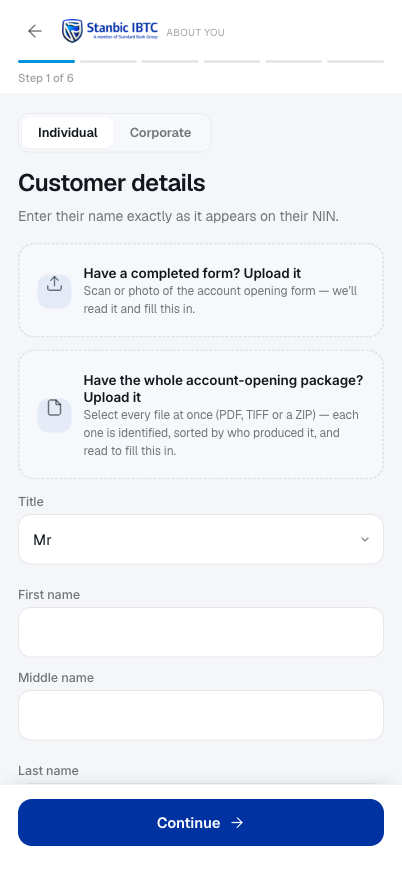
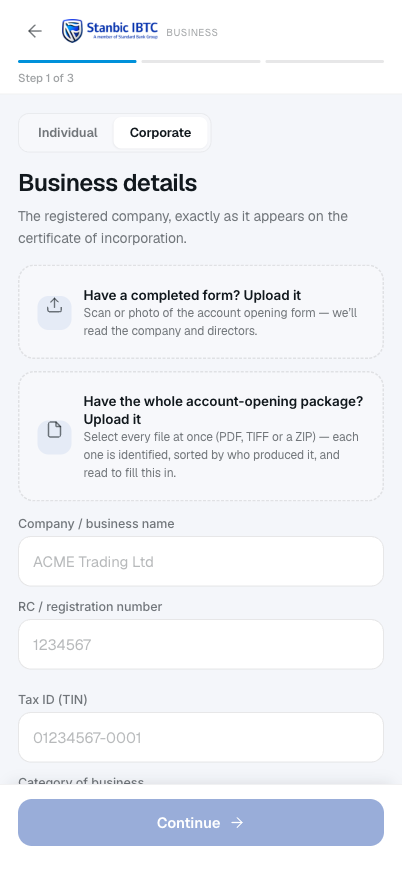
Pulse walkthrough: Stanbic corporate AOP in the form-reading scenes, phone frame with status bar

diff --git a/public/walkthrough/mobile.html b/public/walkthrough/mobile.html
@@ -41,9 +41,18 @@ body{margin:0;color:var(--ink);font-family:var(--display);line-height:1.5;font-s
 .stage{display:grid;grid-template-columns:auto minmax(0,1fr);gap:clamp(28px,6vw,96px);align-items:center;max-width:1200px;margin:0 auto;padding:26px max(20px,env(safe-area-inset-right,0px)) 10px max(20px,env(safe-area-inset-left,0px))}
 .phone-wrap{position:relative;justify-self:center}
 .phone-wrap::after{content:"";position:absolute;inset:auto 10% -26px 10%;height:40px;border-radius:50%;background:radial-gradient(closest-side, rgba(1,33,105,.25), transparent)}
-.phone{position:relative;aspect-ratio:402/874;height:min(calc(100vh - 290px),760px);min-height:440px;width:auto;max-width:100%;border-radius:46px;background:linear-gradient(160deg,#2a3350,#0f1630);padding:11px;box-shadow:var(--shadow), inset 0 0 0 1px rgba(255,255,255,.14);animation:float 7s ease-in-out infinite}
+.phone{position:relative;aspect-ratio:402/918;height:min(calc(100vh - 290px),780px);min-height:460px;width:auto;max-width:100%;border-radius:50px;background:linear-gradient(160deg,#3a4466,#121a33 45%,#0b1024);padding:10px;box-shadow:var(--shadow), inset 0 0 0 1.5px rgba(255,255,255,.18), inset 0 0 0 4px #05070f;animation:float 7s ease-in-out infinite}
+.phone::before,.phone::after{content:"";position:absolute;background:#1a2340;border-radius:2px;box-shadow:inset 0 0 0 1px rgba(255,255,255,.12)}
+.phone::before{left:-3px;top:19%;width:3px;height:9%;box-shadow:inset 0 0 0 1px rgba(255,255,255,.12),0 13% 0 0 #1a2340}
+.phone::after{right:-3px;top:24%;width:3px;height:13%}
+.sbar{flex:0 0 44px;display:flex;align-items:center;justify-content:space-between;padding:0 26px 0 30px;font:600 14px/1 var(--display);color:#0b1b3d;background:#fff;letter-spacing:.01em;position:relative;transition:background .4s,color .4s}
+.sbar.dark{background:#0d1420;color:#fff}
+.sbar::before{content:"";position:absolute;left:50%;top:9px;transform:translateX(-50%);width:34%;height:26px;border-radius:14px;background:#05070f}
+.sbar svg{height:12px;width:auto;display:block}
+.sbar .r{display:flex;align-items:center;gap:6px}
+.shots{position:relative;flex:1;min-height:0}
 @keyframes float{0%,100%{transform:translateY(0)}50%{transform:translateY(-8px)}}
-.screen{position:relative;width:100%;height:100%;border-radius:36px;overflow:hidden;background:#fff}
+.screen{position:relative;width:100%;height:100%;border-radius:40px;overflow:hidden;background:#fff;display:flex;flex-direction:column}
 .screen img{position:absolute;inset:0;width:100%;height:100%;object-fit:cover;opacity:0;transform:scale(1.03);transition:opacity .45s ease,transform .6s ease}
 .screen img.on{opacity:1;transform:scale(1)}
 
@@ -139,7 +148,7 @@ button:focus-visible{outline:2px solid var(--sky);outline-offset:2px}
       <h1>A day in the branch, on one phone</h1>
       <p>Open an account from a paper form in minutes, follow every application live in UiPath Maestro, run bulk opening from maker to verifier, and clear exceptions by root cause. 31 scenes, about ten minutes.</p>
       <ul class="list">
-        <li><i></i>Scan a form, 44 fields filled</li><li><i></i>Live case stages from Maestro</li>
+        <li><i></i>Scan a form, read in seconds</li><li><i></i>Live case stages from Maestro</li>
         <li><i></i>BVN, NIN and document checks</li><li><i></i>Bulk opening with four-eyes control</li>
         <li><i></i>Exception triage by root cause</li><li><i></i>Aura, the assistant that acts</li>
       </ul>
@@ -163,7 +172,7 @@ button:focus-visible{outline:2px solid var(--sky);outline-offset:2px}
 </header>
 <div class="prog"><i id="prog"></i></div>
 <main class="stage">
-  <div class="phone-wrap"><div class="phone"><div class="screen" id="screen"></div></div></div>
+  <div class="phone-wrap"><div class="phone"><div class="screen"><div class="sbar" id="sbar"><span>9:41</span><span class="r"><svg viewBox="0 0 18 12" fill="currentColor"><rect x="0" y="8" width="3" height="4" rx=".6"/><rect x="5" y="5.5" width="3" height="6.5" rx=".6"/><rect x="10" y="3" width="3" height="9" rx=".6"/><rect x="15" y="0" width="3" height="12" rx=".6"/></svg><svg viewBox="0 0 16 12" fill="currentColor"><path d="M8 9.6a1.6 1.6 0 1 1 0 3.2 1.6 1.6 0 0 1 0-3.2Zm0-4.2c1.9 0 3.6.8 4.8 2l-1.4 1.4A4.8 4.8 0 0 0 8 7.4a4.8 4.8 0 0 0-3.4 1.4L3.2 7.4A6.8 6.8 0 0 1 8 5.4Zm0-4.2c3 0 5.8 1.2 7.8 3.2l-1.4 1.4A9 9 0 0 0 8 3.2a9 9 0 0 0-6.4 2.6L.2 4.4A11 11 0 0 1 8 1.2Z"/></svg><svg viewBox="0 0 27 12" fill="none" stroke="currentColor"><rect x=".5" y=".5" width="22" height="11" rx="3"/><rect x="2.5" y="2.5" width="16" height="7" rx="1.5" fill="currentColor" stroke="none"/><path d="M24.5 4v4" stroke-width="1.6" stroke-linecap="round"/></svg></span></div><div class="shots" id="screen"></div></div></div></div>
   <section class="story" id="story" aria-live="polite">
     <div class="actchip" id="actchip"></div>
     <h1 id="title"></h1>
@@ -178,7 +187,7 @@ button:focus-visible{outline:2px solid var(--sky);outline-offset:2px}
 </nav>
 <script>
 const ACTS = [{"n": "Start of the day", "sub": "The relationship manager opens Pulse", "c": "#0091da"}, {"n": "One customer", "sub": "Open an account on the spot", "c": "#0033a1"}, {"n": "Follow the case", "sub": "Live from UiPath Maestro", "c": "#6c3fd1"}, {"n": "Many at once", "sub": "Bulk opening, maker to verifier", "c": "#0a8f6b"}, {"n": "Operations", "sub": "Exceptions and approvals", "c": "#d9640b"}, {"n": "Relationships and help", "sub": "Clients, Aura, alerts, roles", "c": "#c21f6b"}];
-const SCENES = [{"act": 0, "title": "Good afternoon", "say": "Pulse opens on the banker's day, not a menu. The Aura prompt comes first; under it, a rail shows what the platform is doing right now: 79 applications in flight in Maestro, 11 forms an agent has read and is waiting to have confirmed, 28 accounts a robot keyed into core banking today.", "behind": "Each card on the rail is a live count from the tenant: Maestro cases, agent tasks, RPA jobs, Case Management exceptions, Delegate approvals.", "img": "mobile/stanbic/01-home.png"}, {"act": 0, "title": "Your pipeline at a glance", "say": "Scroll once and the whole book is there: 135 applications, 17 that need this person, 11 waiting on a customer, 79 moving on their own, 26 opened. The oldest three that need attention are listed with the reason in plain words and a one-tap action each.", "behind": "Lane counts come from the record store; 'See the live case' deep-links into the Maestro instance behind the application.", "img": "mobile/stanbic/01b-home-pipeline.png"}, {"act": 1, "title": "Scan it, upload it, or type it", "say": "Tap 'One customer'. The banker can scan the paper form, upload the whole account-opening package, or type the details. Individual or corporate, same flow.", "behind": "The capture wizard is the customer's own six-step flow in RM mode, so what the banker captures is exactly what the customer would have submitted.", "img": "mobile/stanbic/05-capture.png"}, {"act": 1, "title": "The form is read in seconds", "say": "A ten-page handwritten account opening form goes in. The reader identifies it as the customer's account opening form, pages through it, and reports 44 application fields.", "behind": "Document reading runs on UiPath IXP. The page preview is the customer's actual scan; the right panel fills field by field as the read completes.", "img": "mobile/stanbic/05c-read.png"}, {"act": 1, "title": "Forty-four fields, filled", "say": "'Use these details' drops everything into the application: title, names, date of birth, phone, address, employment, next of kin. The banker checks and continues. Nothing is retyped.", "behind": "Every field keeps its source and confidence, so low-confidence values can be routed to a maker for confirmation later.", "img": "mobile/stanbic/05d-filled.png"}, {"act": 2, "title": "Pipeline by lane", "say": "Every customer the branch captured, in one list. Filter to 'Needs you', 'Waiting on customer', 'Moving' or 'Opened'. On the phone, swipe right to call, swipe left to nudge the customer with their KYC link.", "behind": "Status marks follow one grammar across the app: filled square needs you, hollow square waiting, half square moving, tick done.", "img": "mobile/stanbic/02-pipeline.png"}, {"act": 2, "title": "Live in Maestro", "say": "Open Emeka Chukwu. The stage bar is read from the live Maestro case: Intake, Verification, Decision, Activation, Closure. Inside Decision, four tasks are done and one needs a person. The button at the bottom completes that Maestro task from the phone.", "behind": "Stages and tasks come from the Maestro Case Management API for the instance linked to this record; 'Approve Decision and advance' completes the human task in Action Center.", "img": "mobile/stanbic/03-case.png"}, {"act": 2, "title": "Send the KYC link", "say": "If something is missing from the customer, send the KYC link by SMS and WhatsApp in one tap. The customer finishes documents, liveness and signature on their own phone. Nobody has to come into the branch.", "behind": "The link is a tokenised customer journey; when the customer completes it, the case moves on and the desk sees it.", "img": "mobile/stanbic/03b-sendlink.png"}, {"act": 2, "title": "Identity, field by field", "say": "The Identity tab shows the BVN validation against NIBSS: response 00, valid, not watch-listed. Each field is the form value beside the bureau value, so a mismatch is obvious at a glance. Below it, the NIN linkage.", "behind": "BVN and NIN checks are agent tasks in the Verification stage; the result is rendered as returned, nothing is re-derived on the phone.", "img": "mobile/stanbic/04b-identity.png"}, {"act": 2, "title": "Documents judged against the bank's rules", "say": "The Documents tab judges each document the customer gave: declared type, expiry, issuing authority. Here the voter's card passes: valid to 2030, and INEC holds a matching record.", "behind": "Document rules are a DMN decision table the bank owns; changing a rule changes the verdict without changing the app.", "img": "mobile/stanbic/04-docs.png"}, {"act": 2, "title": "Find anyone", "say": "Search by name, reference or account number from anywhere. Typing a surname lists every matching application with its state.", "behind": "Search runs over the record store and the Maestro links, so a reference from a Maestro email finds the same case.", "img": "mobile/stanbic/10-find.png"}, {"act": 3, "title": "A batch: how are they arriving?", "say": "'Many at once' starts a batch. Filled forms arrive as a zip and are read automatically, then confirmed by an Operations maker. Or a list of people, each of whom gets a link and fills the form on their own phone.", "behind": "A batch is a Maestro BPMN process that starts one case per record and runs a final check across the batch.", "img": "mobile/stanbic/06-newbatch.png"}, {"act": 3, "title": "About the batch", "say": "Name it, pick the segment and the booking branch. Four steps and the batch is running.", "behind": "Segment and branch drive routing rules and the account product.", "img": "mobile/stanbic/06b-newbatch2.png"}, {"act": 3, "title": "Batch progress", "say": "A co-operative of twenty: 85% decided, three still need the relationship manager, the rest opened or with Operations. Filter the people by You, Ops or Done. Opened accounts show the account number.", "behind": "Each person's row is their own case; the batch view rolls them up.", "img": "mobile/stanbic/07-batch.png"}, {"act": 3, "title": "The maker's queue", "say": "Switch the work role to Operations maker and Home changes. Eleven forms to confirm, five read with low confidence, about six minutes at this person's pace. Hardest first.", "behind": "Roles are set in admin and switchable on the device; Home, the queue and the actions follow the role.", "img": "mobile/stanbic/16-maker-home.png"}, {"act": 3, "title": "Focus mode: confirm what was read", "say": "One form at a time. For each doubtful field the handwriting crop sits above the value the agent read and its confidence. Correct, or edit. Fields read confidently are folded away. Every change is logged with the maker's name, the time, and before and after.", "behind": "This is the human-in-the-loop step of the IXP read, with the audit trail the regulator asks for.", "img": "mobile/stanbic/22-maker-review.png"}, {"act": 3, "title": "The verifier: ready to open", "say": "As Operations verifier, Home shows five accounts confirmed by makers and ready to open. They open on Post No Debit until documents are verified. Four-eyes rule: you cannot open an account you confirmed yourself.", "behind": "Maker and checker are the signed-in users; the app refuses self-approval at the data layer, not just in the UI.", "img": "mobile/stanbic/17-verifier-home.png"}, {"act": 3, "title": "Slide to open five accounts", "say": "The maker trail for each person is listed, then the commit. Opening an account cannot be undone, so it is a slide, not a tap.", "behind": "The slide starts the core-banking robot for each account; the account numbers appear on the batch screen as the jobs complete.", "img": "mobile/stanbic/21-authorise.png"}, {"act": 4, "title": "Exception triage", "say": "The Operations analyst's Home is a control panel: 84% straight-through against an 80% target, 17 open exceptions, 16 past SLA. Below, the queue grouped by root cause, with one fix per cause: 'Retry BVN on all 4'.", "behind": "Root causes are derived from the incident reason on each Maestro case, so a platform outage shows up as one line, not forty.", "img": "mobile/stanbic/18-ops-home.png"}, {"act": 4, "title": "One root cause, every case", "say": "Open a cause and see each case under it, how long it has been over SLA, and whether anyone owns it. Filter to past SLA, unowned, or mine.", "behind": "Taking a case assigns the Action Center task to this person.", "img": "mobile/stanbic/19-ops-queue.png"}, {"act": 4, "title": "Work one exception", "say": "A BVN that did not verify. The cause in plain words, every check with its result, and the actions: take the case, re-run the BVN check, escalate, reject.", "behind": "Re-run restarts the check task in Maestro; escalate hands the case to Compliance through Delegate.", "img": "mobile/stanbic/20-ops-case.png"}, {"act": 4, "title": "Approvals, most urgent first", "say": "Maker-checker approvals waiting on this person: six, worth 266.5 million naira, one past SLA. Filter by past SLA, high value or dual approval.", "behind": "Approvals are Action Center tasks assigned to this user's role; the amount thresholds come from the bank's policy.", "img": "mobile/stanbic/08-approvals.png"}, {"act": 4, "title": "One approval, full context", "say": "An overdraft limit increase: the request, who raised it, the maker's justification, the checks against the current limit. Approve and route, or reject with a reason.", "behind": "Over this person's limit, so 'Approve and route' sends it to a second approver automatically.", "img": "mobile/stanbic/08b-approval.png"}, {"act": 5, "title": "The banker's book", "say": "Clients: five key relationships, three at risk, eleven suggested actions, two KYC reviews due. Scan a walk-in's ID to pull up their profile.", "behind": "Signals are derived from product and transaction data; the list is sorted by what matters most right now.", "img": "mobile/stanbic/09-clients.png"}, {"act": 5, "title": "One client", "say": "Emeka Okafor: relationship value, monthly profit, products, the churn risk with its score, and the suggested retention call. Personal details are masked and the view is logged.", "behind": "Suggested actions carry a confidence and an exposure figure, so the banker knows what a missed call costs.", "img": "mobile/stanbic/09b-client.png"}, {"act": 5, "title": "Ask Aura", "say": "Ask in plain language: 'Which applications need me today?' Aura answers from live data, seventeen, oldest first, each with its reason, and offers to open the first one.", "behind": "Aura reads the same store and Maestro links as the screens; 'Ask Pulse' escalates to the bank's UiPath conversational agent for anything beyond the app.", "img": "mobile/stanbic/11-aura.png"}, {"act": 5, "title": "Follow-up with a bulk action", "say": "Tap a suggested follow-up, 'Who's stuck on BVN?'. Eight are, with their failed attempts. Re-run all eight in one tap, or call the first.", "behind": "The bulk action re-runs the BVN task on each case; nothing is retyped.", "img": "mobile/stanbic/11b-aura-bvn.png"}, {"act": 5, "title": "Alerts that carry their action", "say": "Alerts are grouped into Needs you, Customers and System, and each carries its action inline: re-run BVN, call, open. A gateway timeout on NIMC shows once with 'Re-run all', not as twenty separate failures.", "behind": "Alerts are derived from case incidents and events; marking read is per device.", "img": "mobile/stanbic/12b-alerts-needs.png"}, {"act": 5, "title": "Explore", "say": "Start something from here, see what each account needs, and watch six short films on how the platform does the work behind the screens: agents, robots, Maestro, case management, Delegate, tasks.", "behind": "Useful in a branch to show a customer what will happen to their application.", "img": "mobile/stanbic/13-explore.png"}, {"act": 5, "title": "One app, four roles", "say": "Profile shows this month's numbers and the work role: Relationship Manager, Operations maker, Operations verifier, Operations analyst. Switching changes Home and the queue.", "behind": "Admin sets the default and allowed roles per person; the switch is for shared devices and demos.", "img": "mobile/stanbic/14-profile.png"}, {"act": 5, "title": "Dark mode", "say": "Everything re-skins for low light; status colours and the Stanbic blue stay legible.", "behind": "Colours are tokens that flip with the system setting or the Profile toggle.", "img": "mobile/stanbic/15-dark-home.png"}];
+const SCENES = [{"act": 0, "title": "Good afternoon", "say": "Pulse opens on the banker's day, not a menu. The Aura prompt comes first; under it, a rail shows what the platform is doing right now: 79 applications in flight in Maestro, 11 forms an agent has read and is waiting to have confirmed, 28 accounts a robot keyed into core banking today.", "behind": "Each card on the rail is a live count from the tenant: Maestro cases, agent tasks, RPA jobs, Case Management exceptions, Delegate approvals.", "img": "mobile/stanbic/01-home.png", "dark": false}, {"act": 0, "title": "Your pipeline at a glance", "say": "Scroll once and the whole book is there: 135 applications, 17 that need this person, 11 waiting on a customer, 79 moving on their own, 26 opened. The oldest three that need attention are listed with the reason in plain words and a one-tap action each.", "behind": "Lane counts come from the record store; 'See the live case' deep-links into the Maestro instance behind the application.", "img": "mobile/stanbic/01b-home-pipeline.png", "dark": false}, {"act": 1, "title": "Scan it, upload it, or type it", "say": "Tap 'One customer' and choose Corporate. The banker can scan the paper account opening form, upload the whole account-opening package, or type the details. Individual or corporate, same flow.", "behind": "The capture wizard is the customer's own six-step flow in RM mode, so what the banker captures is exactly what the customer would have submitted.", "img": "mobile/stanbic/05-capture.png", "dark": false}, {"act": 1, "title": "The form is read in seconds", "say": "A twelve-page handwritten Stanbic IBTC entity account opening form goes in. The reader identifies it as the customer's account opening form, pages through it, and reports 25 application fields: the company and both directors.", "behind": "Document reading runs on UiPath IXP. The page preview is the customer's actual scan; the right panel fills field by field as the read completes.", "img": "mobile/stanbic/05c-read.png", "dark": false}, {"act": 1, "title": "Company and directors, filled", "say": "'Use these details' drops everything into the application: company name, RC number, TIN, category, sector, turnover, addresses, and the two director signatories with their own details. The banker checks and continues. Nothing is retyped.", "behind": "Every field keeps its source and confidence, so low-confidence values can be routed to a maker for confirmation later.", "img": "mobile/stanbic/05d-filled.png", "dark": false}, {"act": 2, "title": "Pipeline by lane", "say": "Every customer the branch captured, in one list. Filter to 'Needs you', 'Waiting on customer', 'Moving' or 'Opened'. On the phone, swipe right to call, swipe left to nudge the customer with their KYC link.", "behind": "Status marks follow one grammar across the app: filled square needs you, hollow square waiting, half square moving, tick done.", "img": "mobile/stanbic/02-pipeline.png", "dark": false}, {"act": 2, "title": "Live in Maestro", "say": "Open Emeka Chukwu. The stage bar is read from the live Maestro case: Intake, Verification, Decision, Activation, Closure. Inside Decision, four tasks are done and one needs a person. The button at the bottom completes that Maestro task from the phone.", "behind": "Stages and tasks come from the Maestro Case Management API for the instance linked to this record; 'Approve Decision and advance' completes the human task in Action Center.", "img": "mobile/stanbic/03-case.png", "dark": false}, {"act": 2, "title": "Send the KYC link", "say": "If something is missing from the customer, send the KYC link by SMS and WhatsApp in one tap. The customer finishes documents, liveness and signature on their own phone. Nobody has to come into the branch.", "behind": "The link is a tokenised customer journey; when the customer completes it, the case moves on and the desk sees it.", "img": "mobile/stanbic/03b-sendlink.png", "dark": false}, {"act": 2, "title": "Identity, field by field", "say": "The Identity tab shows the BVN validation against NIBSS: response 00, valid, not watch-listed. Each field is the form value beside the bureau value, so a mismatch is obvious at a glance. Below it, the NIN linkage.", "behind": "BVN and NIN checks are agent tasks in the Verification stage; the result is rendered as returned, nothing is re-derived on the phone.", "img": "mobile/stanbic/04b-identity.png", "dark": false}, {"act": 2, "title": "Documents judged against the bank's rules", "say": "The Documents tab judges each document the customer gave: declared type, expiry, issuing authority. Here the voter's card passes: valid to 2030, and INEC holds a matching record.", "behind": "Document rules are a DMN decision table the bank owns; changing a rule changes the verdict without changing the app.", "img": "mobile/stanbic/04-docs.png", "dark": false}, {"act": 2, "title": "Find anyone", "say": "Search by name, reference or account number from anywhere. Typing a surname lists every matching application with its state.", "behind": "Search runs over the record store and the Maestro links, so a reference from a Maestro email finds the same case.", "img": "mobile/stanbic/10-find.png", "dark": false}, {"act": 3, "title": "A batch: how are they arriving?", "say": "'Many at once' starts a batch. Filled forms arrive as a zip and are read automatically, then confirmed by an Operations maker. Or a list of people, each of whom gets a link and fills the form on their own phone.", "behind": "A batch is a Maestro BPMN process that starts one case per record and runs a final check across the batch.", "img": "mobile/stanbic/06-newbatch.png", "dark": false}, {"act": 3, "title": "About the batch", "say": "Name it, pick the segment and the booking branch. Four steps and the batch is running.", "behind": "Segment and branch drive routing rules and the account product.", "img": "mobile/stanbic/06b-newbatch2.png", "dark": false}, {"act": 3, "title": "Batch progress", "say": "A co-operative of twenty: 85% decided, three still need the relationship manager, the rest opened or with Operations. Filter the people by You, Ops or Done. Opened accounts show the account number.", "behind": "Each person's row is their own case; the batch view rolls them up.", "img": "mobile/stanbic/07-batch.png", "dark": false}, {"act": 3, "title": "The maker's queue", "say": "Switch the work role to Operations maker and Home changes. Eleven forms to confirm, five read with low confidence, about six minutes at this person's pace. Hardest first.", "behind": "Roles are set in admin and switchable on the device; Home, the queue and the actions follow the role.", "img": "mobile/stanbic/16-maker-home.png", "dark": false}, {"act": 3, "title": "Focus mode: confirm what was read", "say": "One form at a time. For each doubtful field the handwriting crop sits above the value the agent read and its confidence. Correct, or edit. Fields read confidently are folded away. Every change is logged with the maker's name, the time, and before and after.", "behind": "This is the human-in-the-loop step of the IXP read, with the audit trail the regulator asks for.", "img": "mobile/stanbic/22-maker-review.png", "dark": false}, {"act": 3, "title": "The verifier: ready to open", "say": "As Operations verifier, Home shows five accounts confirmed by makers and ready to open. They open on Post No Debit until documents are verified. Four-eyes rule: you cannot open an account you confirmed yourself.", "behind": "Maker and checker are the signed-in users; the app refuses self-approval at the data layer, not just in the UI.", "img": "mobile/stanbic/17-verifier-home.png", "dark": false}, {"act": 3, "title": "Slide to open five accounts", "say": "The maker trail for each person is listed, then the commit. Opening an account cannot be undone, so it is a slide, not a tap.", "behind": "The slide starts the core-banking robot for each account; the account numbers appear on the batch screen as the jobs complete.", "img": "mobile/stanbic/21-authorise.png", "dark": false}, {"act": 4, "title": "Exception triage", "say": "The Operations analyst's Home is a control panel: 84% straight-through against an 80% target, 17 open exceptions, 16 past SLA. Below, the queue grouped by root cause, with one fix per cause: 'Retry BVN on all 4'.", "behind": "Root causes are derived from the incident reason on each Maestro case, so a platform outage shows up as one line, not forty.", "img": "mobile/stanbic/18-ops-home.png", "dark": false}, {"act": 4, "title": "One root cause, every case", "say": "Open a cause and see each case under it, how long it has been over SLA, and whether anyone owns it. Filter to past SLA, unowned, or mine.", "behind": "Taking a case assigns the Action Center task to this person.", "img": "mobile/stanbic/19-ops-queue.png", "dark": false}, {"act": 4, "title": "Work one exception", "say": "A BVN that did not verify. The cause in plain words, every check with its result, and the actions: take the case, re-run the BVN check, escalate, reject.", "behind": "Re-run restarts the check task in Maestro; escalate hands the case to Compliance through Delegate.", "img": "mobile/stanbic/20-ops-case.png", "dark": false}, {"act": 4, "title": "Approvals, most urgent first", "say": "Maker-checker approvals waiting on this person: six, worth 266.5 million naira, one past SLA. Filter by past SLA, high value or dual approval.", "behind": "Approvals are Action Center tasks assigned to this user's role; the amount thresholds come from the bank's policy.", "img": "mobile/stanbic/08-approvals.png", "dark": false}, {"act": 4, "title": "One approval, full context", "say": "An overdraft limit increase: the request, who raised it, the maker's justification, the checks against the current limit. Approve and route, or reject with a reason.", "behind": "Over this person's limit, so 'Approve and route' sends it to a second approver automatically.", "img": "mobile/stanbic/08b-approval.png", "dark": false}, {"act": 5, "title": "The banker's book", "say": "Clients: five key relationships, three at risk, eleven suggested actions, two KYC reviews due. Scan a walk-in's ID to pull up their profile.", "behind": "Signals are derived from product and transaction data; the list is sorted by what matters most right now.", "img": "mobile/stanbic/09-clients.png", "dark": false}, {"act": 5, "title": "One client", "say": "Emeka Okafor: relationship value, monthly profit, products, the churn risk with its score, and the suggested retention call. Personal details are masked and the view is logged.", "behind": "Suggested actions carry a confidence and an exposure figure, so the banker knows what a missed call costs.", "img": "mobile/stanbic/09b-client.png", "dark": false}, {"act": 5, "title": "Ask Aura", "say": "Ask in plain language: 'Which applications need me today?' Aura answers from live data, seventeen, oldest first, each with its reason, and offers to open the first one.", "behind": "Aura reads the same store and Maestro links as the screens; 'Ask Pulse' escalates to the bank's UiPath conversational agent for anything beyond the app.", "img": "mobile/stanbic/11-aura.png", "dark": false}, {"act": 5, "title": "Follow-up with a bulk action", "say": "Tap a suggested follow-up, 'Who's stuck on BVN?'. Eight are, with their failed attempts. Re-run all eight in one tap, or call the first.", "behind": "The bulk action re-runs the BVN task on each case; nothing is retyped.", "img": "mobile/stanbic/11b-aura-bvn.png", "dark": false}, {"act": 5, "title": "Alerts that carry their action", "say": "Alerts are grouped into Needs you, Customers and System, and each carries its action inline: re-run BVN, call, open. A gateway timeout on NIMC shows once with 'Re-run all', not as twenty separate failures.", "behind": "Alerts are derived from case incidents and events; marking read is per device.", "img": "mobile/stanbic/12b-alerts-needs.png", "dark": false}, {"act": 5, "title": "Explore", "say": "Start something from here, see what each account needs, and watch six short films on how the platform does the work behind the screens: agents, robots, Maestro, case management, Delegate, tasks.", "behind": "Useful in a branch to show a customer what will happen to their application.", "img": "mobile/stanbic/13-explore.png", "dark": false}, {"act": 5, "title": "One app, four roles", "say": "Profile shows this month's numbers and the work role: Relationship Manager, Operations maker, Operations verifier, Operations analyst. Switching changes Home and the queue.", "behind": "Admin sets the default and allowed roles per person; the switch is for shared devices and demos.", "img": "mobile/stanbic/14-profile.png", "dark": false}, {"act": 5, "title": "Dark mode", "say": "Everything re-skins for low light; status colours and the Stanbic blue stay legible.", "behind": "Colours are tokens that flip with the system setting or the Profile toggle.", "img": "mobile/stanbic/15-dark-home.png", "dark": true}];
 let i = 0, timer = null, seen = new Set();
 const $ = (s) => document.querySelector(s);
 const screen = $('#screen'), thumbs = $('#thumbs'), actsEl = $('#acts'), story = $('#story');
@@ -204,6 +213,7 @@ function go(k) {
   i = Math.max(0, Math.min(SCENES.length - 1, k)); seen.add(i);
   const s = SCENES[i], a = ACTS[s.act];
   document.documentElement.style.setProperty('--act', a.c);
+  $('#sbar').classList.toggle('dark', !!s.dark);
   screen.querySelectorAll('img').forEach((im) => im.classList.toggle('on', +im.dataset.k === i));
   story.classList.remove('enter'); void story.offsetWidth; story.classList.add('enter');
   $('#actchip').innerHTML = '<i>' + (s.act+1) + '</i>' + a.n + '<span>· ' + a.sub + '</span>';
